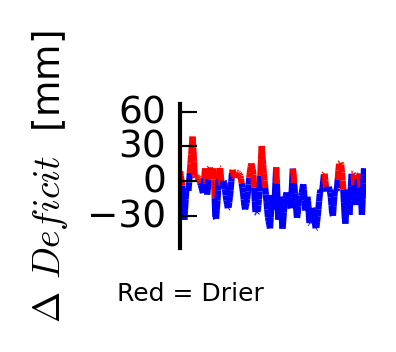
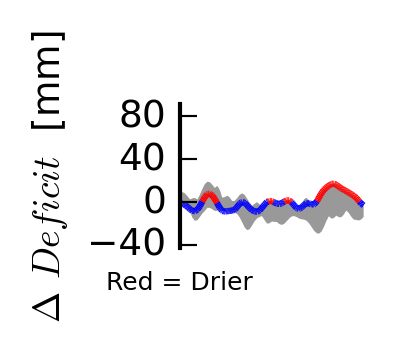
graph one HighClim for water deficit only

diff --git a/Ex1.py b/Ex1.py
@@ -793,22 +793,22 @@ for plot_num in plots_to_plot:
         plt.close()
         
         # Calculate Baseline
-        file_nm = data_path + 'ET_by_Subbasin_Ref_Run0.csv'       
+        file_nm = data_path + 'ET_by_Subbasin_HighClim_Run0.csv'       
         data_ET  =[mfx(file_nm, column=subbasin_data_ET_col[i], skip=cst.day_of_year_oct1) for i in range(12)]
         data_PET =[mfx(file_nm, column=subbasin_data_ET_col[i]+1, skip=cst.day_of_year_oct1) for i in range(12)]
         data_hd1 = [data_PET[i] - data_ET[i] for i in range(12)]
         wd1 = [np.sum(data_hd1[i][:,:],1) for i in range(12)]
         
-        data_ET=[mfx(file_nm.replace('_Ref_','_HighClim_'), column=subbasin_data_ET_col[i], 
+        data_ET=[mfx(file_nm.replace('_HighClim_','_Ref_'), column=subbasin_data_ET_col[i], 
                      skip=cst.day_of_year_oct1) for i in range(12)]
-        data_PET=[mfx(file_nm.replace('_Ref_','_HighClim_'), column=subbasin_data_ET_col[i]+1, 
+        data_PET=[mfx(file_nm.replace('_HighClim_','_Ref_'), column=subbasin_data_ET_col[i]+1, 
                      skip=cst.day_of_year_oct1) for i in range(12)]
         data_hd2 = [data_PET[i] - data_ET[i] for i in range(12)]
         wd2 = [np.sum(data_hd2[i][:,:],1) for i in range(12)]
         
-        data_ET = [mfx(file_nm.replace('_Ref_','_LowClim_'), column=subbasin_data_ET_col[i], 
+        data_ET = [mfx(file_nm.replace('_HighClim_','_LowClim_'), column=subbasin_data_ET_col[i], 
                        skip=cst.day_of_year_oct1) for i in range(12)]
-        data_PET= [mfx(file_nm.replace('_Ref_','_LowClim_'), column=subbasin_data_ET_col[i]+1, 
+        data_PET= [mfx(file_nm.replace('_HighClim_','_LowClim_'), column=subbasin_data_ET_col[i]+1, 
                       skip=cst.day_of_year_oct1) for i in range(12)]
         data_hd3 = [data_PET[i] - data_ET[i] for i in range(12)]
         wd3 = [np.sum(data_hd3[i][:,:],1) for i in range(12)]
@@ -823,9 +823,9 @@ for plot_num in plots_to_plot:
         data_to_stack = []
         print 'here1'
         for key in scenarios:
-            data_ET=[mfx(file_nm.replace('_Ref_Run0',scenarios[key]), column=subbasin_data_ET_col[i], 
+            data_ET=[mfx(file_nm.replace('_HighClim_Run0',scenarios[key]), column=subbasin_data_ET_col[i], 
                          skip=cst.day_of_year_oct1) for i in range(12)]
-            data_PET=[mfx(file_nm.replace('_Ref_Run0',scenarios[key]), column=subbasin_data_ET_col[i]+1, 
+            data_PET=[mfx(file_nm.replace('_HighClim_Run0',scenarios[key]), column=subbasin_data_ET_col[i]+1, 
                          skip=cst.day_of_year_oct1) for i in range(12)]
             data_hd1 = [data_PET[i] - data_ET[i] for i in range(12)]
             wd1 = [np.sum(data_hd1[i][:,:],1) for i in range(12)]
@@ -856,8 +856,8 @@ for plot_num in plots_to_plot:
                       mind,maxd,redblue,num_yrs,ylabel,xlabel, facecolor='0.6',
                       linewidth=1.5)
                
-        title = "Change in Water Deficit"
-        file_graphics = 'change_in_water_deficit_wGrphs.png'
+        title = "Change in Water Deficit (HighClim)"
+        file_graphics = 'change_in_water_deficit_wGrphs_HighClim.png'
         
         graphs = range(13); graphs.remove(11)
 
